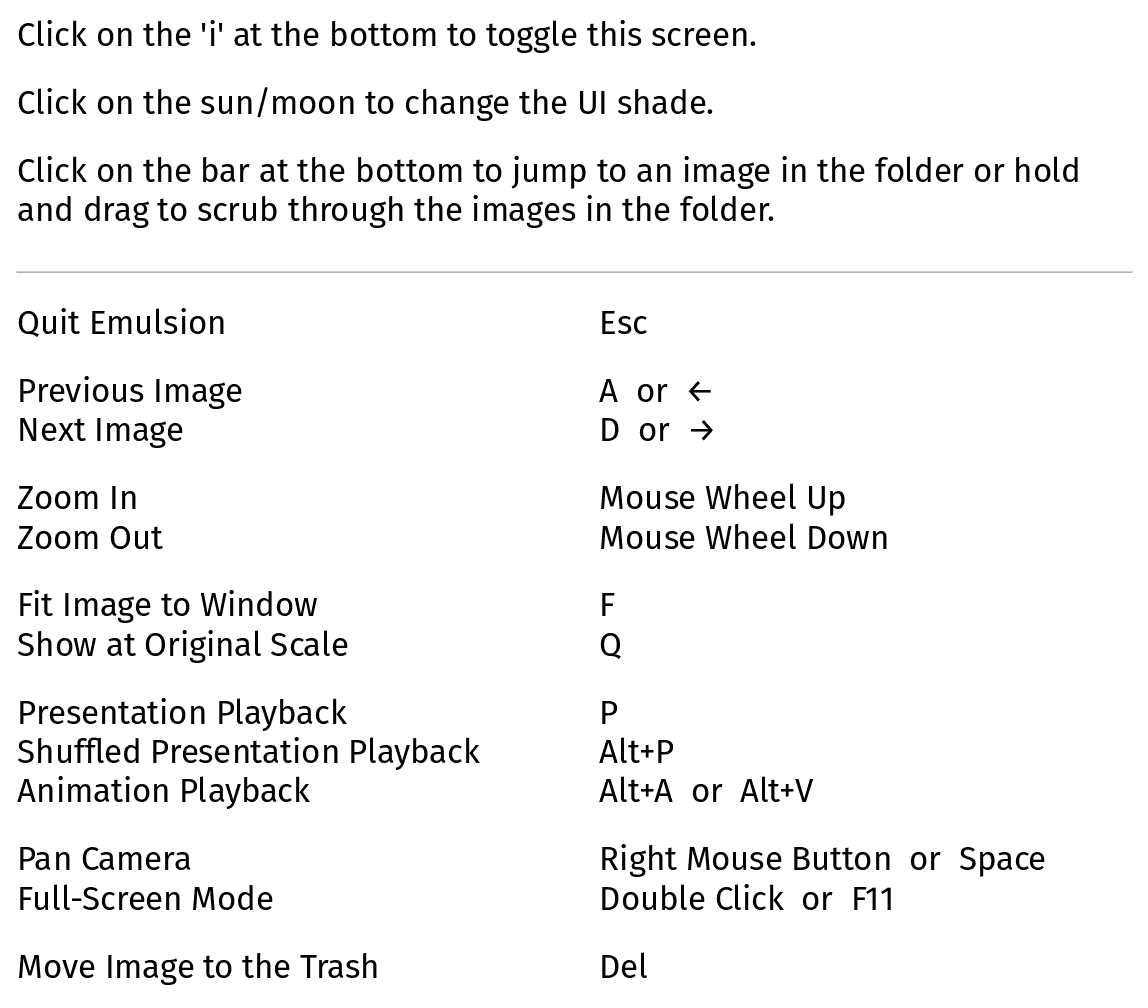
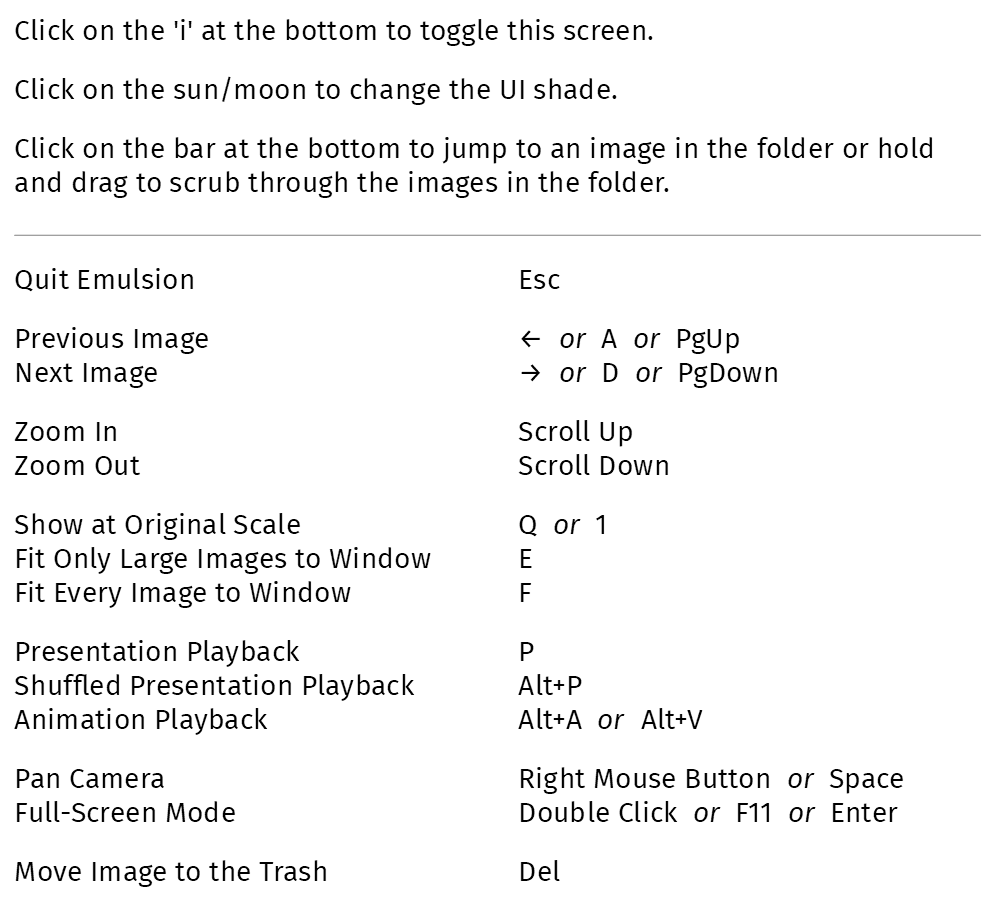
Update help screen and add the Enter key as one of the defaults for toggling full-screen.

diff --git a/src/input_handling.rs b/src/input_handling.rs
@@ -23,7 +23,7 @@ pub static PLAY_PRESENT_RND_NAME: &str = "play_present_rnd";
 lazy_static! {
 	pub static ref DEFAULT_BINDINGS: HashMap<&'static str, Vec<&'static str>> = {
 		let mut m = HashMap::new();
-		m.insert(TOGGLE_FULLSCREEN_NAME, vec!["F11"]);
+		m.insert(TOGGLE_FULLSCREEN_NAME, vec!["F11", "Return"]);
 		m.insert(ESCAPE_NAME, vec!["Escape"]);
 		m.insert(IMG_NEXT_NAME, vec!["D", "Right", "PageDown"]);
 		m.insert(IMG_PREV_NAME, vec!["A", "Left", "PageUp"]);
